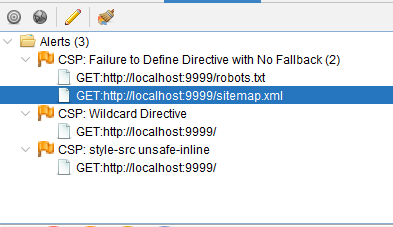
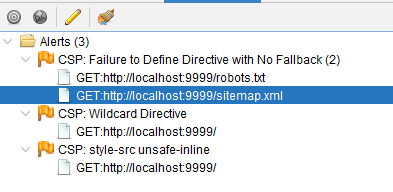
refactor: update images for OWASP ZAP results in security testing section

diff --git a/chapters/devops-deployment.tex b/chapters/devops-deployment.tex
@@ -1,108 +1,81 @@
 \section{DevOps and Deployment Strategy}
 \label{sec:devops-strategy}
 
-The transition from a monolithic development environment to a distributed microservice architecture necessitates a robust DevOps strategy. As defined by \citet{kim2016}, DevOps is not merely a set of tools but a culture and practice that aims to shorten the systems development life cycle while delivering features, fixes, and updates frequently in close alignment with business objectives. For the TEKUTOKO platform, a container-centric deployment strategy orchestrated by Kubernetes (K8s) was selected to ensure high availability, scalability, and maintainability \citep{burns2019}. This section details the architectural decisions and implementation specifics of the deployment pipeline.
+The transition from a monolithic development environment to a distributed microservice architecture necessitates a robust DevOps strategy. As defined by \citet{kim2016}, DevOps is not merely a set of tools but a culture that aims to shorten the systems development life cycle. For the TEKUTOKO platform, the architecture was split into three distinct services to ensure scalability:
+\begin{enumerate}
+    \item \textbf{docx-processor:} A Python FastAPI microservice for heavy document processing.
+    \item \textbf{tekutoko-server:} A Node.js Express backend acting as the main API and authentication handler.
+    \item \textbf{tekutoko-client:} A ReactJS frontend application served via Nginx.
+\end{enumerate}
 
-\subsection{Containerization with Docker}
+This section details the containerization challenges, the Kubernetes orchestration on AWS EKS, and the architectural decisions made during the deployment pipeline.
+
+\subsection{Phase 1: Advanced Containerization Strategy}
 \label{subsec:containerization}
 
-To achieve environment consistency across development, testing, and production, the platform utilizes Operating-system-level virtualization, commonly known as containerization \citep{merkel2014}.
+To achieve environment consistency detailed by \citet{merkel2014}, specific Docker strategies were employed to resolve language-specific challenges found during the development phase.
 
-\subsubsection{Rationale for Containerization}
-Unlike traditional Virtual Machines (VMs) which emulate hardware and require a full guest operating system, containers share the host system's kernel while isolating processes in user space. This results in significantly lower overhead, faster startup times, and greater portability detailed in Table \ref{tab:vm-vs-container}.
+\subsubsection{Python Microservice: Solving Dependency Hell}
+The \texttt{docx-processor} service required system-level binaries (\texttt{pandoc}, \texttt{imagemagick}) that differed significantly between developer environments (Windows) and production (Linux). A critical issue encountered was the default security policy of ImageMagick 7 blocking PDF conversions.
 
-\begin{table}[htbp]
-\centering
-\caption{Comparison of Virtual Infrastructure Approaches}
-\label{tab:vm-vs-container}
-\begin{tabular}{p{4cm} p{5cm} p{5cm}}
-\toprule
-\textbf{Feature} & \textbf{Virtual Machines} & \textbf{Docker Containers} \\
-\midrule
-\textbf{Isolation} & Hardware-level (Hypervisor) & OS-level (Namespaces/Cgroups) \\
-\textbf{Size} & Large (GBs) & Small (MBs) \\
-\textbf{Startup Time} & Minutes & Milliseconds/Seconds \\
-\textbf{Dependencies} & Manually managed per VM & Encapsulated in Image \\
-\bottomrule
-\end{tabular}
-\end{table}
+The solution involved a custom logic in the \texttt{Dockerfile} to detect and patch the policy XML dynamically:
 
-\subsubsection{Implementation Details}
-Crucially for this project, containerization solves the "dependency hell" problem inherent in the Python document processing microservice. This service requires specific versions of system-level binaries—\texttt{pandoc} for LaTeX conversion and \texttt{imagemagick} for media processing—which are difficult to manage consistently across different developer machines (Windows/macOS) and production servers (Linux).
-
-A custom \texttt{Dockerfile} was engineered for the Python service to encapsulate these dependencies:
-
-\begin{lstlisting}[language=bash, caption={Snippet of Python Microservice Dockerfile}, label={lst:dockerfile}]
-# Use python:3.9-slim for reduced image size
-FROM python:3.9-slim
-
-# Install system-level dependencies for document processing
-RUN apt-get update && apt-get install -y \
-    pandoc \
-    imagemagick \
-    && rm -rf /var/lib/apt/lists/*
-
-# Relax ImageMagick security policy to allow PDF/DOCX processing
-RUN sed -i 's/rights="none" pattern="PDF"/rights="read|write" pattern="PDF"/' \
-    /etc/ImageMagick-6/policy.xml
-
-WORKDIR /app
-COPY requirements.txt .
-RUN pip install --no-cache-dir -r requirements.txt
-COPY . .
-CMD ["uvicorn", "app.main:app", "--host", "0.0.0.0", "--port", "8000"]
+\begin{lstlisting}[language=bash, caption={Fixing ImageMagick Policy in Docker}, label={lst:docker-python-fix}]
+# Update ImageMagick policy to allow PDF conversion 
+# (Compatible with both ImageMagick 6 and 7)
+RUN if [ -f /etc/ImageMagick-6/policy.xml ]; then \
+    sed -i 's/rights="none" pattern="PDF"/rights="read|write" pattern="PDF"/' \
+    /etc/ImageMagick-6/policy.xml; \
+fi
 \end{lstlisting}
 
-\subsection{Orchestration with Kubernetes}
+\subsubsection{Node.js Server: Dependency Isolation}
+Initially, the project utilized a monorepo structure where the Frontend and Backend shared a single `package.json`, causing dependency conflicts during the build process. To isolate the environments, the backend dependencies were extracted into a dedicated `server/package.json`. Docker build contexts were adjusted to pull only essential server-side code, reducing the image size and build time.
+
+\subsubsection{React Client: Multi-stage Building}
+For the frontend, a \textbf{Multi-stage Build} strategy was implemented to separate the build environment from the runtime environment.
+\begin{itemize}
+    \item \textbf{Stage 1 (Builder):} Uses `node:20-alpine` to compile React code into static HTML/CSS/JS.
+    \item \textbf{Stage 2 (Runtime):} Uses lightweight `nginx:alpine` to serve the static files.
+\end{itemize}
+
+This approach reduced the final image size from $>$500MB (Node modules included) to $<$20MB (Nginx + Static files).
+
+\subsection{Phase 2: Kubernetes Orchestration (AWS EKS)}
 \label{subsec:kubernetes}
 
-While Docker manages individual containers, a production microservice system requires a higher-level orchestrator to manage lifecycle, networking, and scaling. Kubernetes (K8s) was selected over simpler solutions like Docker Compose for its robust capabilities in state management and self-healing.
+Moving from local testing (Minikube) to production, the system was deployed on \textbf{Amazon Elastic Kubernetes Service (EKS)} using `t3.small` nodes to balance cost and performance.
 
-\subsubsection{Cluster Architecture and Topology}
-The Kubernetes cluster is designed following a modular topology where services are exposed through a unified Ingress Controller. The architecture ensures that internal services (Database, Python Microservice) are not directly exposed to the public internet, reducing the attack surface.
+\subsubsection{Cluster Topology and Service Discovery}
+A key architectural decision was the routing flow. Unlike traditional n-tier architectures where the Client only talks to the Backend, the TEKUTOKO client communicates directly with both the Node.js Server (for Auth/User) and the Python Service (for Quiz/Docx generation).
 
-The deployed topology is illustrated in Figure \ref{fig:k8s-architecture}.
+To manage this, an \textbf{AWS Load Balancer Controller} (ALB) or \textbf{Nginx Ingress Controller} is strictly required to route traffic based on URL paths:
+
+\begin{itemize}
+    \item \texttt{/api/v1/*} $\rightarrow$ Routed to \texttt{docx-processor-svc} (Python).
+    \item \texttt{/backend/*} or \texttt{/api/*} $\rightarrow$ Routed to \texttt{tekutoko-server-svc} (Node.js).
+    \item \texttt{/*} $\rightarrow$ Routed to \texttt{tekutoko-client-svc} (React).
+\end{itemize}
 
 \begin{figure}[htbp]
 \centering
 \includegraphics[width=0.9\textwidth]{figures/k8s-architecture.png}
-\caption{Kubernetes Cluster Topology and Traffic Flow}
+\caption{Kubernetes Cluster Topology on AWS EKS}
 \label{fig:k8s-architecture}
 \end{figure}
-\FloatBarrier
 
-\subsubsection{Resource Organization and Manifests}
-The deployment configuration follows the Infrastructure as Code (IaC) paradigm, stored in a structured \texttt{k8s/} directory within the project repository. This structure separates configuration concerns:
-
-\begin{lstlisting}[language=bash, caption={Kubernetes Manifest Directory Structure}]
-k8s/
-|-- 00-config/        # ConfigMaps and Secrets (Credentials)
-|-- 01-database/      # MySQL StatefulSet and PVCs
-|-- 02-python-app/    # Document Processing Microservice
-|-- 03-node-app/      # Main API Backend
-|-- 04-frontend/      # React Client Application
-`-- 05-ingress/       # Ingress Routing Rules
-\end{lstlisting}
-
-\subsubsection{Service Discovery and Networking}
-A critical challenge in microservice architecture is service discovery—how the Node.js backend locates the Python microservice without hardcoded IP addresses (which change dynamically in K8s).
-
-To solve this, Kubernetes \textbf{Services} are employed. A Service defines a logical set of Pods and a policy by which to access them.
-\begin{enumerate}
-    \item \textbf{Internal DNS:} The core backend connects to the database via the hostname \texttt{mysql-service} and to the docx-processor via \texttt{python-backend-service}. Kubernetes' internal DNS resolver automatically routes these hostnames to the correct ClusterIP.
-    \item \textbf{Ingress Routing:} An Nginx Ingress Controller handles Layer 7 (HTTP) routing, directing external traffic based on URL paths:
-    \begin{itemize}
-        \item \texttt{/api/*} $\rightarrow$ Node.js Backend (Port 3000)
-        \item \texttt{/python-api/*} $\rightarrow$ Python Service (Port 8000)
-        \item \texttt{/*} $\rightarrow$ Frontend Service (Port 80)
-    \end{itemize}
-\end{enumerate}
-
-\subsubsection{State Management and Persistence}
-Although the application logic is stateless \citep{newman2021}, data persistence is critical. \textbf{PersistentVolumeClaims (PVCs)} constitute the mechanism used to abstract storage provisioning:
+\subsubsection{Storage Management on Cloud}
+While local deployments (Minikube) use standard storage classes, deploying on AWS required the installation of the \textbf{EBS CSI Driver}.
 \begin{itemize}
-    \item \textbf{Database Persistence:} A 5Gi PVC attached to the MySQL Deployment ensures user data is preserved even if the database container crashes or restarts.
-    \item \textbf{Processing Workspace:} The Python microservice mounts a 2Gi PVC at \texttt{/app/outputs}. This shared workspace simplifies the processing pipeline, allowing the service to extract heavy media files from DOCX archives to disk without consuming the container's ephemeral memory, preventing \textit{Out Of Memory (OOM)} errors during high load.
+    \item \textbf{Challenge:} The Python service requires a shared workspace to unpack generic DOCX files before processing.
+    \item \textbf{Solution:} A `PersistentVolumeClaim` (PVC) using the `gp3` storage class was configured to mount to `/app/outputs`. This ensures that even if pods restart during auto-scaling, the processed file cache remains available.
+\end{itemize}
+
+\subsubsection{Secret Management Strategy}
+To secure sensitive credentials (database passwords, Gemini API keys), a "Template vs. Real" strategy was adopted:
+\begin{itemize}
+    \item \texttt{secrets.template.yaml}: Committed to Git, containing placeholders.
+    \item \texttt{secrets.yaml}: Configured directly on the cluster or CI/CD runner, never committed.
 \end{itemize}
 
 \subsection{Continuous Deployment Pipeline}
@@ -116,19 +89,8 @@ A GitOps-based workflow automates the deployment process. The CI/CD pipeline, vi
 \caption{Automated CI/CD Pipeline Workflow}
 \label{fig:cicd-pipeline}
 \end{figure}
-\FloatBarrier
 
-Upon a commit to the \texttt{main} branch:
-\begin{enumerate}
-    \item \textbf{CI Phase:} GitHub Actions runners execute unit tests and linter checks to verify code integrity.
-    \item \textbf{Build Phase:} Docker images are built for each service, tagged with the commit SHA (e.g., \texttt{docx-processor:a1b2c3d}), and pushed to the container registry.
-    \item \textbf{CD Phase:} The pipeline authenticates with the Kubernetes cluster and updates the Deployment images:
-    \begin{verbatim}
-    kubectl set image deployment/docx-processor-deploy \
-        docx-processor=registry/docx-processor:a1b2c3d
-    \end{verbatim}
-    \item \textbf{Rolling Update:} Kubernetes performs a rolling update, incrementally replacing old Pods with new ones, ensuring zero downtime for users.
-\end{enumerate}
+Upon a commit to the \texttt{main} branch, GitHub Actions triggers the build process, pushes tagged images to \textbf{Amazon ECR (Elastic Container Registry)}, and updates the EKS Deployment manifests.
 
 \section{System Security Assurance and Testing}
 \label{sec:system-security}
@@ -210,7 +172,7 @@ app.disable('x-powered-by'); // Obfuscate Server technology information
 
 \begin{figure}[htbp]
 \centering
-\includegraphics[width=0.9\textwidth]{figures/zap-backend-after.png}
+\includegraphics[width=0.65\textwidth]{figures/zap-backend-after.png}
 \caption{OWASP ZAP Results for Backend API After Hardening (Clean State)}
 \label{fig:zap-backend-after}
 \end{figure}
@@ -221,7 +183,7 @@ In the development environment (\texttt{npm start}), the ReactJS interface recor
 
 \begin{figure}[htbp]
 \centering
-\includegraphics[width=0.8\textwidth]{figures/zap-frontend-before.png}
+\includegraphics[width=0.65\textwidth]{figures/zap-frontend-before.png}
 \caption{OWASP ZAP Results for Frontend Before Hardening (11 Alerts)}
 \label{fig:zap-frontend-before}
 \end{figure}
@@ -247,7 +209,7 @@ add_header Content-Security-Policy "default-src 'self';
 
 \begin{figure}[htbp]
 \centering
-\includegraphics[width=0.9\textwidth]{figures/zap-frontend-after.png}
+\includegraphics[width=0.6\textwidth]{figures/zap-frontend-after.png}
 \caption{OWASP ZAP Results for Frontend After Hardening (Reduced to 7 Low/Medium Alerts)}
 \label{fig:zap-frontend-after}
 \end{figure}
@@ -335,6 +297,3 @@ This configuration allows the Frontend (ReactJS) to maintain a simple environmen
 const API_URL = "/api";
 export default API_URL;
 \end{lstlisting}
-
-\subsection*{Chapter Conclusion}
-By combining Static Software Composition Analysis (SCA) and Dynamic Application Security Testing (DAST), the team successfully established a closed-loop security process for the Fullstack application. Practical scanning results demonstrate that the system has been solidly reinforced at both the Application layer (NodeJS) and the Server layer (Web Server configuration), ensuring safety for data and users prior to official deployment.
